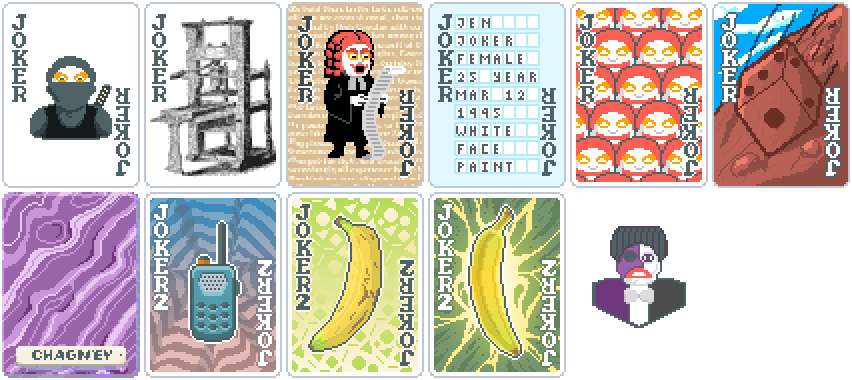
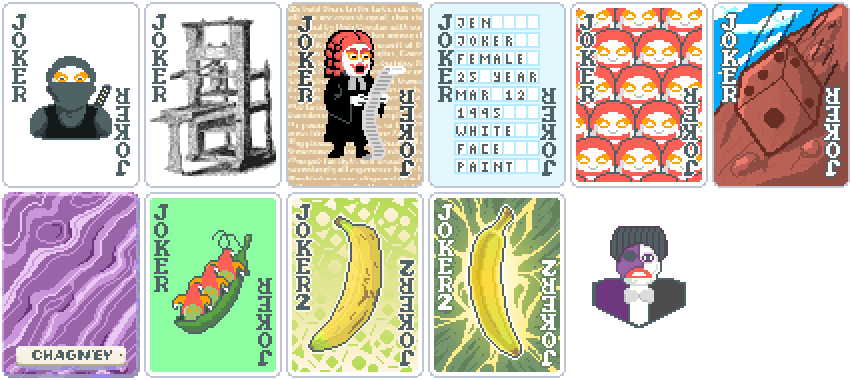
Added Three Peas in a Pod joker

Changed region(s): [[0.1526, 0.5211, 0.3357, 0.9842]]

diff --git a/CREDITS.md b/CREDITS.md
@@ -5,12 +5,13 @@ Ideas:
  - crittykatie: Census
  - liz\_leziari: Hivemind
  - Mathman2028: Template
- - OmnipotentEntity: Ninja, Chimera
+ - OmnipotentEntity: Ninja, Chimera, Three Peas in a Pod
  - unknownusergd: Student Loan Debt
  - /u/yellow-hammer: Filibuster
  - Dimoniosus: Rolling Stone
 
 Art:
  - Dimoniosus: Rolling Stone
- - OmnipotentEntity: Ninja, Template, Chimera, Census, Hivemind
+ - OmnipotentEntity: Ninja, Template, Chimera, Census, Hivemind, Three Peas in a
+   Pod
  - /u/yellow-hammer: Filibuster
